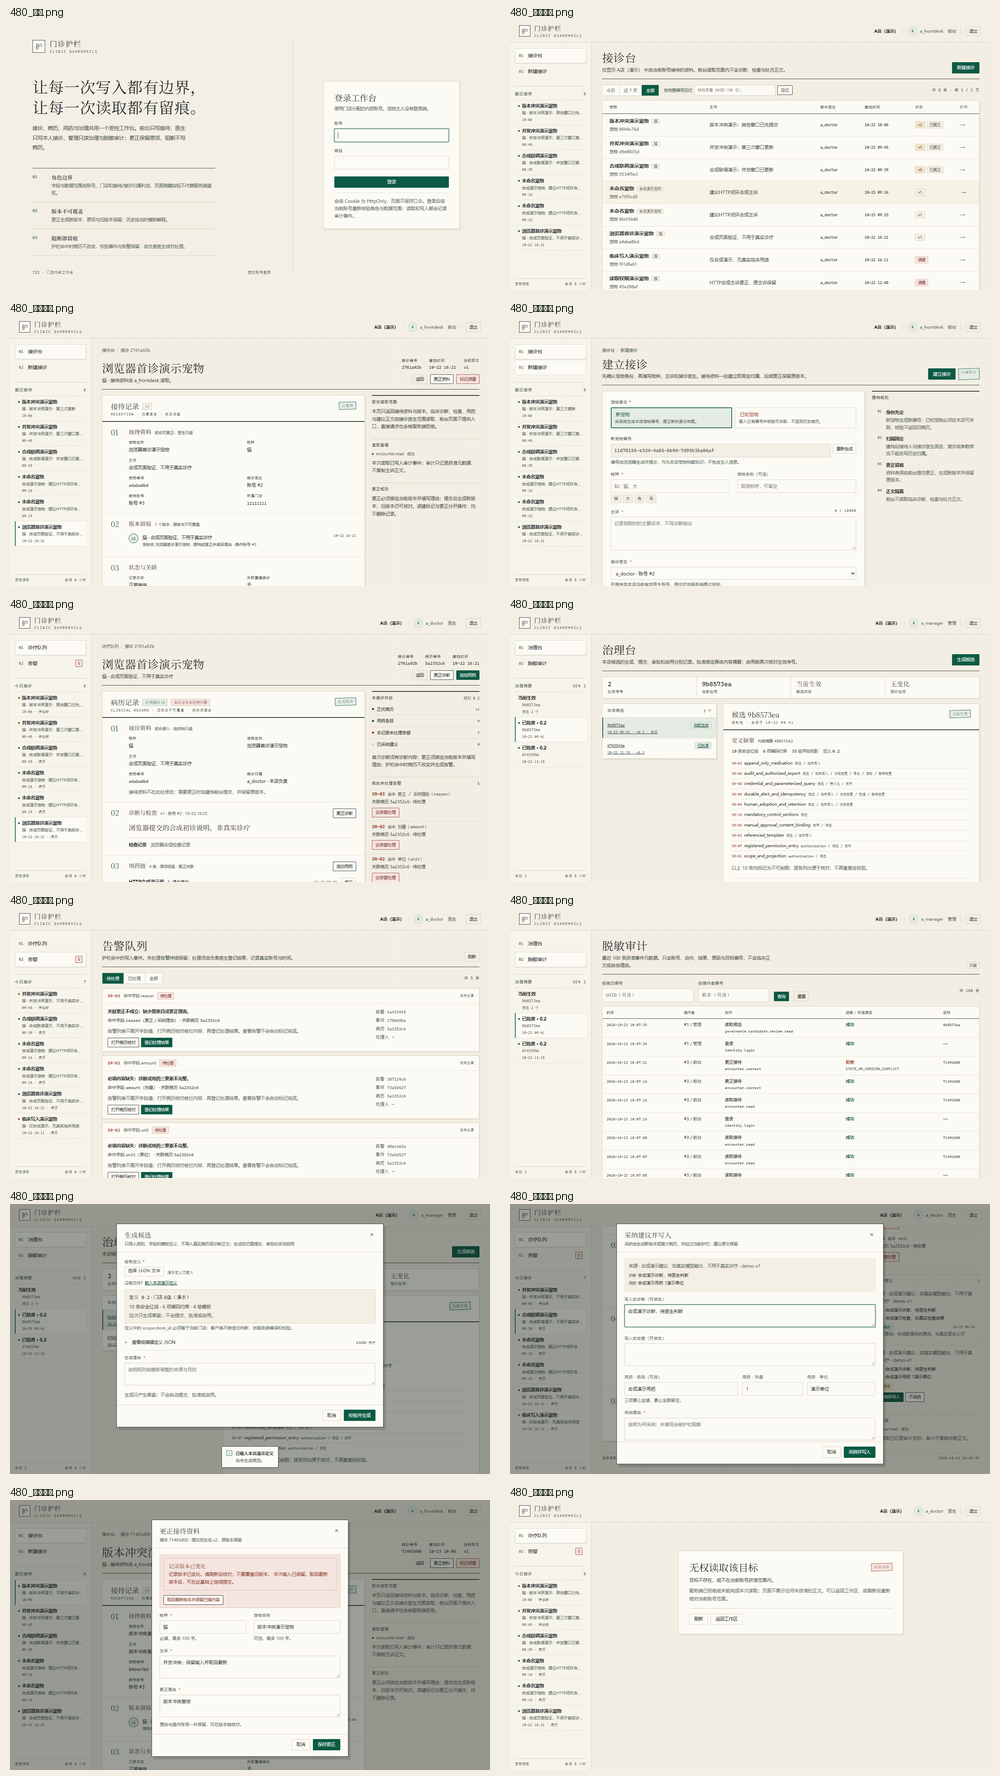
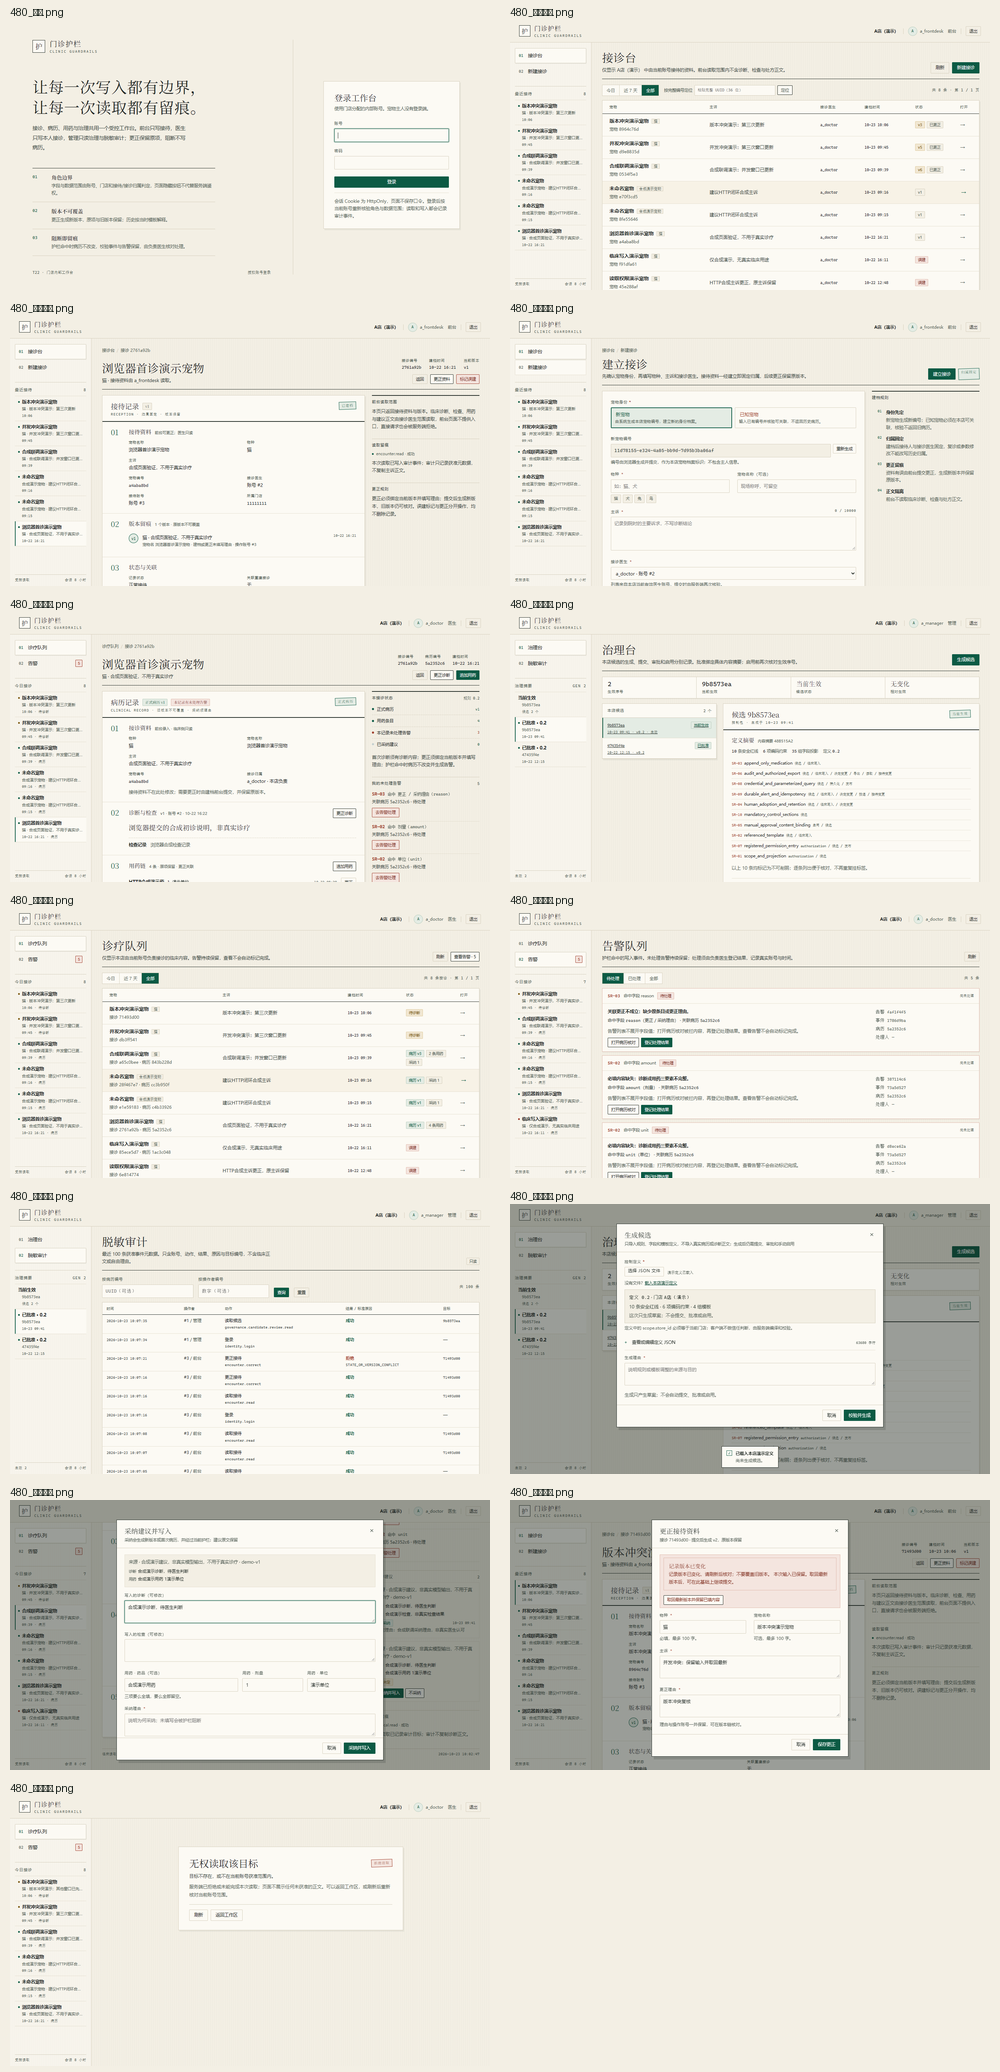
feat: harden clinical queue and keyboard access
Add clinical queue pagination and refresh, a frontdesk empty-state CTA, modal focus trap and focus return, skip-to-content and aria-current navigation, and reset per-view filters on login. No backend routes, models, permissions or migrations changed.

diff --git a/05_系统代码/frontend/assets/app.js b/05_系统代码/frontend/assets/app.js
@@ -12,7 +12,10 @@ const state = {
   session: null,
   sidebar: null,
   route: null,
+  lastFocus: null,
   range: 'all',
+  receptionPage: 1,
+  clinicalPage: 1,
   alertFilter: 'unhandled',
   selectedCandidate: '',
   auditFilters: { record_ref: '', operator_ref: '' },
@@ -317,6 +320,7 @@ function toast(message, kind = 'ok', detail = '') {
 }
 
 function openModal({ title, subtitle = '', body = '', foot = '', wide = false, kind = '', draftKey = '' }) {
+  state.lastFocus = document.activeElement;
   state.modal = { kind, draftKey };
   state.reloadLatest = null;
   modalRoot.innerHTML = `
@@ -353,13 +357,38 @@ function openModal({ title, subtitle = '', body = '', foot = '', wide = false, k
 }
 
 function closeModal() {
+  const last = state.lastFocus;
   state.modal = null;
   state.reloadLatest = null;
+  state.lastFocus = null;
   modalRoot.innerHTML = '';
   document.body.style.overflow = '';
+  if (last && last.isConnected && typeof last.focus === 'function') last.focus();
+}
+function modalFocusables() {
+  return $$('a[href], button:not([disabled]), textarea:not([disabled]), input:not([disabled]):not([type=hidden]), select:not([disabled]), [tabindex]:not([tabindex="-1"])', modalRoot)
+    .filter((el) => el.getClientRects().length > 0);
 }
 document.addEventListener('keydown', (e) => {
-  if (e.key === 'Escape' && modalRoot.innerHTML) closeModal();
+  if (!modalRoot.innerHTML) return;
+  if (e.key === 'Escape') { closeModal(); return; }
+  if (e.key !== 'Tab') return;
+  const focusables = modalFocusables();
+  if (!focusables.length) return;
+  const first = focusables[0];
+  const last = focusables[focusables.length - 1];
+  if (!modalRoot.contains(document.activeElement)) {
+    e.preventDefault();
+    first.focus();
+    return;
+  }
+  if (e.shiftKey && document.activeElement === first) {
+    e.preventDefault();
+    last.focus();
+  } else if (!e.shiftKey && document.activeElement === last) {
+    e.preventDefault();
+    first.focus();
+  }
 });
 
 function modalError(message) {
@@ -611,6 +640,7 @@ function renderShell() {
   const sb = state.sidebar || {};
   root.innerHTML = `
   <div class="app">
+    <button class="skip-link" type="button" data-action="skip-main">跳到主要内容</button>
     <header class="masthead">
       <div class="brand" style="display:flex;align-items:center;gap:11px">
         <span class="mark">护</span>
@@ -634,7 +664,7 @@ function renderShell() {
           <span>会话 8 小时</span>
         </div>
       </aside>
-      <main class="main"><div class="page" id="view"></div></main>
+      <main class="main"><div class="page" id="view" tabindex="-1"></div></main>
     </div>
   </div>`;
 }
@@ -656,6 +686,10 @@ function updateShell() {
 async function enterApp() {
   state.bootError = null;
   state.receptionPage = 1;
+  state.clinicalPage = 1;
+  state.range = 'all';
+  state.alertFilter = 'unhandled';
+  state.auditFilters = { record_ref: '', operator_ref: '' };
   state.selectedCandidate = '';
   await loadSidebar();
   renderShell();
@@ -694,6 +728,8 @@ function setActiveNav() {
       (key === 'governance' && route.name === 'governance') ||
       (key === 'audit' && route.name === 'audit');
     a.classList.toggle('on', on);
+    if (on) a.setAttribute('aria-current', 'page');
+    else a.removeAttribute('aria-current');
   });
 }
 
@@ -809,7 +845,7 @@ async function viewReceptions(view) {
         <h1>接诊台</h1>
         <p class="lede">仅显示 ${esc(state.session.store_name)} 中由当前账号接待的资料。前台读取范围内不含诊断、检查与处方正文。</p>
       </div>
-      <div class="head-side"><div class="head-actions"><a class="btn primary" href="#/receptions/new">新建接诊</a></div></div>
+      <div class="head-side"><div class="head-actions"><button class="btn ghost" data-action="reload">刷新</button><a class="btn primary" href="#/receptions/new">新建接诊</a></div></div>
     </header>
     <div class="toolbar">
       <div class="seg" role="group" aria-label="时间范围">
@@ -824,7 +860,7 @@ async function viewReceptions(view) {
     </div>
     <div class="sheet list">
       <div class="list-head"><span>宠物</span><span>主诉</span><span>接诊医生</span><span>建档时间</span><span>状态</span><span>打开</span></div>
-      ${rows || `<div class="list-empty"><b>当前范围暂无接待记录</b><p>可以切换时间范围，或新建一次接诊。</p></div>`}
+      ${rows || `<div class="list-empty"><b>当前范围暂无接待记录</b><p>可以切换时间范围，或新建一次接诊。</p><div style="margin-top:14px"><a class="btn" href="#/receptions/new">新建接诊</a></div></div>`}
     </div>
     ${pages > 1 ? `<div style="display:flex;justify-content:flex-end;align-items:center;gap:8px;margin-top:12px">
       <button class="btn sm ghost" data-action="reception-page" data-page="${page - 1}" ${page <= 1 ? 'disabled' : ''}>上一页</button>
@@ -1067,9 +1103,12 @@ async function viewClinicalList(view) {
   const params = {};
   const tr = rangeParam(state.range);
   if (tr) params.time_range = tr;
+  if (state.clinicalPage > 1) params.page = String(state.clinicalPage);
   const data = await api('/api/clinical/encounters' + (Object.keys(params).length ? '?' + qs(params) : ''));
   const items = data.items || [];
   const total = data.total != null ? data.total : items.length;
+  const page = data.page || 1;
+  const pages = Math.max(1, Math.ceil(total / (data.page_size || 50)));
 
   const rows = items.map((item) => {
     const r = item.reception;
@@ -1083,7 +1122,7 @@ async function viewClinicalList(view) {
         <div class="row-sub">接诊 ${esc(shortRef(r.encounter_ref, 8))}${c ? ' · 病历 ' + esc(shortRef(c.record_ref, 8)) : ''}</div>
       </div>
       <div class="row-mid">${esc(r.complaint || '')}</div>
-      <div class="row-time"><b>${esc(fmtTime(r.created_at))}</b>建档</div>
+      <div class="row-time"><b>${esc(fmtTime(r.created_at))}</b></div>
       <div class="row-status">${chip(st.label, st.kind)}${meds ? chip(meds + ' 条用药', 'muted') : ''}${adopts ? chip('采纳 ' + adopts, 'muted') : ''}</div>
       <div class="row-arrow">→</div>
     </a>`;
@@ -1093,7 +1132,7 @@ async function viewClinicalList(view) {
     <header class="page-head">
       <div>
         <h1>诊疗队列</h1>
-        <p class="lede">仅显示 ${esc(state.session.store_name)} 由当前账号负责接诊的临床内容。未处理的护栏告警持续保留，查看不会自动标记完成。</p>
+        <p class="lede">仅显示本店由当前账号负责接诊的临床内容。告警持续保留，查看不会自动标记完成。</p>
       </div>
       <div class="head-side"><div class="head-actions">
         <button class="btn ghost sm" data-action="reload">刷新</button>
@@ -1104,13 +1143,18 @@ async function viewClinicalList(view) {
       <div class="seg" role="group" aria-label="时间范围">
         ${['today', '7d', 'all'].map((r) => `<button type="button" class="${state.range === r ? 'on' : ''}" data-action="range" data-range="${r}">${r === 'today' ? '今日' : r === '7d' ? '近 7 天' : '全部'}</button>`).join('')}
       </div>
-      <span class="count">共 ${total} 条接诊 · 每人每页 50 条</span>
+      <span class="count">共 ${total} 条接诊 · 第 ${page} / ${pages} 页</span>
     </div>
     <div class="sheet list clinical">
       <div class="list-head"><span>宠物</span><span>主诉</span><span>建档时间</span><span>状态</span><span>打开</span></div>
       ${rows || `<div class="list-empty"><b>当前范围暂无接诊</b><p>前台建档并由本账号负责后，会出现在这里。</p></div>`}
     </div>
-    <footer class="page-foot"><span>接诊归属固定 · 只读取本人负责范围 · 读取已记录审计</span><span>${esc(fmtFull(new Date().toISOString()))}</span></footer>
+    ${pages > 1 ? `<div style="display:flex;justify-content:flex-end;align-items:center;gap:8px;margin-top:12px">
+      <button class="btn sm ghost" data-action="clinical-page" data-page="${page - 1}" ${page <= 1 ? 'disabled' : ''}>上一页</button>
+      <span class="count">第 ${page} / ${pages} 页</span>
+      <button class="btn sm ghost" data-action="clinical-page" data-page="${page + 1}" ${page >= pages ? 'disabled' : ''}>下一页</button>
+    </div>` : ''}
+    <footer class="page-foot"><span>接诊归属固定 · 只读取本人负责范围 · 读取已记录审计</span><span>第 ${page} 页</span></footer>
   </div>`;
 }
 
@@ -2252,8 +2296,10 @@ document.addEventListener('click', async (e) => {
       }
       case 'relogin': location.reload(); return;
       case 'reload': await renderRoute(); return;
-      case 'range': state.range = btn.dataset.range; state.receptionPage = 1; await renderRoute(); return;
+      case 'range': state.range = btn.dataset.range; state.receptionPage = 1; state.clinicalPage = 1; await renderRoute(); return;
       case 'reception-page': state.receptionPage = Number(btn.dataset.page) || 1; await renderRoute(); return;
+      case 'clinical-page': state.clinicalPage = Number(btn.dataset.page) || 1; await renderRoute(); return;
+      case 'skip-main': { const target = $('#view'); if (target) { target.focus(); target.scrollIntoView({ block: 'start' }); } return; }
       case 'alert-filter': state.alertFilter = btn.dataset.filter; await renderRoute(); return;
       case 'audit-reset': state.auditFilters = { record_ref: '', operator_ref: '' }; await renderRoute(); return;
       case 'regen-pet': {

diff --git a/05_系统代码/frontend/assets/styles.css b/05_系统代码/frontend/assets/styles.css
@@ -79,6 +79,8 @@ code,.mono{font-family:var(--mono);font-size:11.5px;letter-spacing:.02em}
 .login-notice{margin:14px 0 0;color:var(--muted);font-size:12.8px;line-height:1.65;border-top:1px solid var(--line-soft);padding-top:12px}
 
 /* ---------- 骨架 ---------- */
+.skip-link{position:fixed;left:12px;top:-60px;z-index:90;background:var(--ink);color:var(--sheet);padding:8px 12px;border:0;border-radius:2px;font:12px/1.4 var(--sans);cursor:pointer;transition:top .15s}
+.skip-link:focus{top:10px}
 .app{height:100vh;display:flex;flex-direction:column;min-height:0}
 .masthead{height:64px;flex:0 0 64px;display:flex;align-items:center;gap:16px;padding:0 26px;
   border-bottom:1px solid var(--line);background:var(--paper);position:relative;z-index:20}

diff --git a/04_设计与控制文件/15_前端界面设计.md b/04_设计与控制文件/15_前端界面设计.md
@@ -94,14 +94,14 @@
 
 ### 5.2 前台
 
-- 列表：时间范围（今日/近 7 天/全部）、按完整 UUID 定位、50 条分页；只显示接待资料。
+- 列表：时间范围（今日/近 7 天/全部）、按完整 UUID 定位、50 条分页、刷新；只显示接待资料；空列表保留新建入口。
 - 建档：新宠物由浏览器生成 UUID 并提交；已知宠物必须先核验「本店可关联」；医生选项来自本店有效医生接口。
 - 详情：接待资料 + 版本链 + 误建状态；更正必须携带当前版本引用和理由；误建标记不删除记录。
 - 右栏明确写出「临床正文不在前台读取范围」，这是权限事实，不是装饰说明。
 
 ### 5.3 医生
 
-- 队列：只显示本人负责接诊；状态分为待诊断/正式病历 vN/误建，并显示用药、采纳数量。
+- 队列：只显示本人负责接诊；状态分为待诊断/正式病历 vN/误建，并显示用药、采纳数量；50 条分页，切时间范围回到第 1 页。
 - 病历：接诊资料只读；诊断/检查、用药链（原项 + 关联更正）、版本链、采纳记录分区。
 - 首次诊断、诊断更正、用药追加/更正都通过弹窗；更正必须绑定当前版本并填写理由。
 - 采纳建议：展示来源标注（合成演示建议，非真实模型输出），预填诊断/检查/用药，采纳理由必填；有正式病历时带 `record_ref` 与 `original_version_ref`，无病历时生成首次病历。
@@ -139,7 +139,7 @@
 
 - 1366×768 为正式基准；1920 下版心最大 1260，不把记录拉成超长行。
 - ≤1180：案卷栏收窄为 150px，保留导航文字、隐藏案卷列表与页脚；≤960：案卷栏变为顶部横向导航，详情/治理改为单列；≤560：表单单列、隐藏门店与角色副信息。
-- 表单控件都有可见 label；弹窗 `role="dialog"`、`aria-modal`，Esc 关闭，焦点落到第一个输入；toast 使用 `aria-live="polite"`；可见焦点环。
+- 表单控件都有可见 label；弹窗 `role="dialog"`、`aria-modal`，Esc 关闭，焦点落到第一个输入；Tab/Shift+Tab 在弹窗内循环，关闭后回到触发按钮；toast 使用 `aria-live="polite"`；可见焦点环；页面提供「跳到主要内容」，当前导航项带 `aria-current="page"`。
 - 所有数据插入都经 `esc()` 转义；不使用 `innerHTML` 拼接用户输入。
 
 ## 9. 代码与接入增量
@@ -159,7 +159,7 @@
 
 ## 10. 验证与未完成项
 
-已验证：真实账号登录、CSRF、建档→更正、首次诊断→诊断更正、用药追加→关联更正、采纳建议、告警处理、候选生成→提交→批准→启用、409 版本冲突反馈与「取回最新版本」、403 无权目标；1366×768 全流程截图（14 张）、约 9 秒录屏、1024/1920 补充截图；新增会话与静态资源的 Django 测试；合并 main 后回归 133 项（本机无 MQ 配置，10 项真实队列跳过；CI 含 RabbitMQ）。
+已验证：真实账号登录、CSRF、建档→更正、首次诊断→诊断更正、用药追加→关联更正、采纳建议、告警处理、候选生成→提交→批准→启用、409 版本冲突反馈与「取回最新版本」、403 无权目标；1366×768 全流程截图（15 张，含诊疗队列）、约 9 秒录屏、1024/1920 补充截图；新增会话与静态资源的 Django 测试；合并 main 后回归 133 项（本机无 MQ 配置，10 项真实队列跳过；CI 含 RabbitMQ）。
 
 未验证/未做：Edge 独立复测（当前浏览器内核为 Chromium，与 Chrome 同源但未单独记录版本）；200% 缩放的逐项检查；移动端正式适配（C-09 不要求）；真实防护栏命中的浏览器内构造（客户端先校验，服务端阻断路径由后端测试覆盖）；401/503 的浏览器状态截图；正式性能与安全验收。
 

diff --git a/07_AI使用留痕/14_前端界面开发记录.md b/07_AI使用留痕/14_前端界面开发记录.md
@@ -46,7 +46,7 @@
 | 管理生成候选 → 提交 → 批准 → 启用 | 生效序号 1→2，旧候选保留 |
 | 会话/审计/静态入口 | 新增 Django 测试通过；合并 main 后回归 133 项（本机 10 项真实队列跳过，CI 含 RabbitMQ） |
 
-证据：`10_验收证据/14_前端界面与浏览器验证/02_最终界面/`（1366×768 主截图 14 张、1024/1920 补充、约 9 秒录屏）。
+证据：`10_验收证据/14_前端界面与浏览器验证/02_最终界面/`（1366×768 主截图 15 张、1024/1920 补充、约 9 秒录屏）。
 
 ## 5. 真实失败与修正
 
@@ -80,3 +80,13 @@
 6. 灰阶、短编号、治理台层级、右栏卡片化、载入骨架按报告逐项调整；编号统一 8 位单段，治理台顶部改为候选与生效的关系，右栏改为页边批注。
 
 第 2 轮复核 **8/10**（[报告](../10_验收证据/14_前端界面与浏览器验证/00_评审/独立视觉评审_v2.md)）：5 个问题全部判“已修”，提升 3 项“已修”、灰阶“部分修”、载入骨架“无法确认”。v2 之后继续处理灰阶、403 空态、02 箭头列、06 状态词、11 导入入口、05 字段名、28 页头刷新，并把修正前的流程截图移入历史目录；处置记录见[主代理处置_v2](../10_验收证据/14_前端界面与浏览器验证/00_评审/主代理处置_v2.md)。v2 的 8 分是本轮最终独立评分，后续改动为主代理自查，不再冒充新的独立评分。子代理意见是 AI 评审，不是本人决策或老师认可。
+
+## 9. 后续加固（独立分支）
+
+2026-10-23，为避免改动已提交后端 review 的 PR #8，另开 `feat/frontend-hardening` 分支做前端加固，不触碰后端：
+
+- 医生诊疗队列补 50 条分页（上一页/下一页、第 x/y 页），切时间范围回到第 1 页；补 `07_医生_诊疗队列.png`。
+- 前台接诊台补刷新按钮；空列表保留「新建接诊」入口。
+- 弹窗焦点管理：Tab/Shift+Tab 在弹窗内循环，关闭后焦点回到触发按钮；页面补「跳到主要内容」，当前导航项带 `aria-current="page"`。
+- 登录/进入工作台时重置时间范围、告警筛选、审计筛选与分页，避免上一账号的筛选状态串到下一账号。
+- 这些改动未新增后端接口、未改权限/模型/迁移；本轮不派子代理，视觉以自查和实际截图为准，不冒充新的独立评审。

diff --git a/10_验收证据/14_前端界面与浏览器验证/02_本批结果.md b/10_验收证据/14_前端界面与浏览器验证/02_本批结果.md
@@ -6,7 +6,7 @@
 
 - 前端入口 `/app` 可用；三角色登录、会话恢复、CSRF、退出均走通。
 - 前台建档 → 更正 → 版本冲突；医生首次诊断 → 诊断更正 → 用药追加/更正 → 采纳建议 → 告警处理；管理生成候选 → 提交 → 批准 → 启用；均为实际 HTTP 与数据库结果，不是前端假数据。
-- 1366×768 主截图 14 张、1024/1920 补充各 1 张、约 9 秒操作录屏 1 段；主截图集无控制台错误、横向溢出或可读性提示。
+- 1366×768 主截图 15 张、1024/1920 补充各 1 张、约 9 秒操作录屏 1 段；主截图集无控制台错误、横向溢出或可读性提示。
 - Django 回归 **133 项，49.444 秒，OK**（合并 main 后；本机无 MQ 配置，10 项真实队列跳过；CI 含 RabbitMQ）。前端新增 1 项会话/静态入口测试。
 - 独立视觉评审：见§6（由独立子代理给出，不是本人或老师认可）。
 
@@ -67,6 +67,7 @@
 | `04_前台_新建接诊.png` | 新建接诊（顶部主操作可见） |
 | `05_医生_病历详情.png` | 医生病历、用药、告警 |
 | `06_管理_治理台.png` | 候选治理 |
+| `07_医生_诊疗队列.png` | 医生队列、50 条分页、刷新与告警入口 |
 | `08_医生_告警.png` | 告警队列 |
 | `09_管理_脱敏审计.png` | 脱敏审计 |
 | `11_管理_生成候选弹窗.png` | 生成候选：定义摘要、文件选择、JSON 折叠 |
